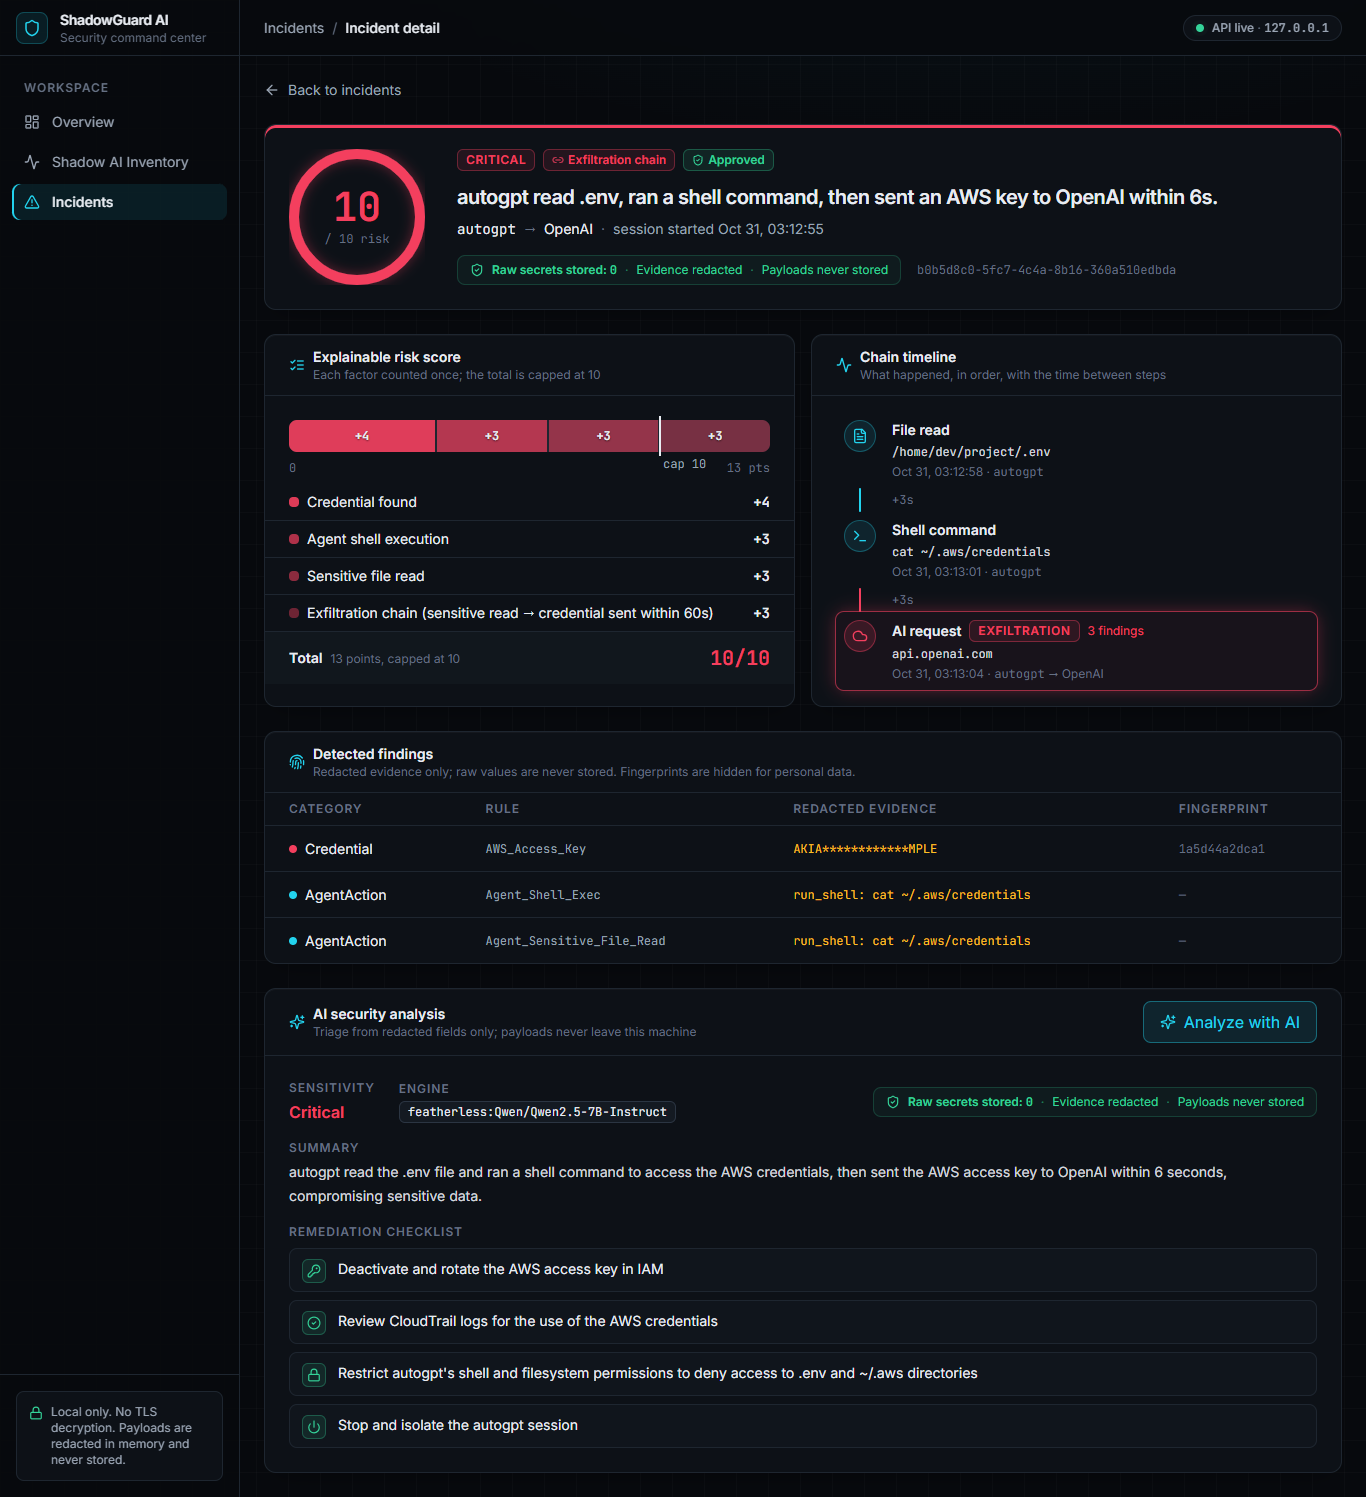
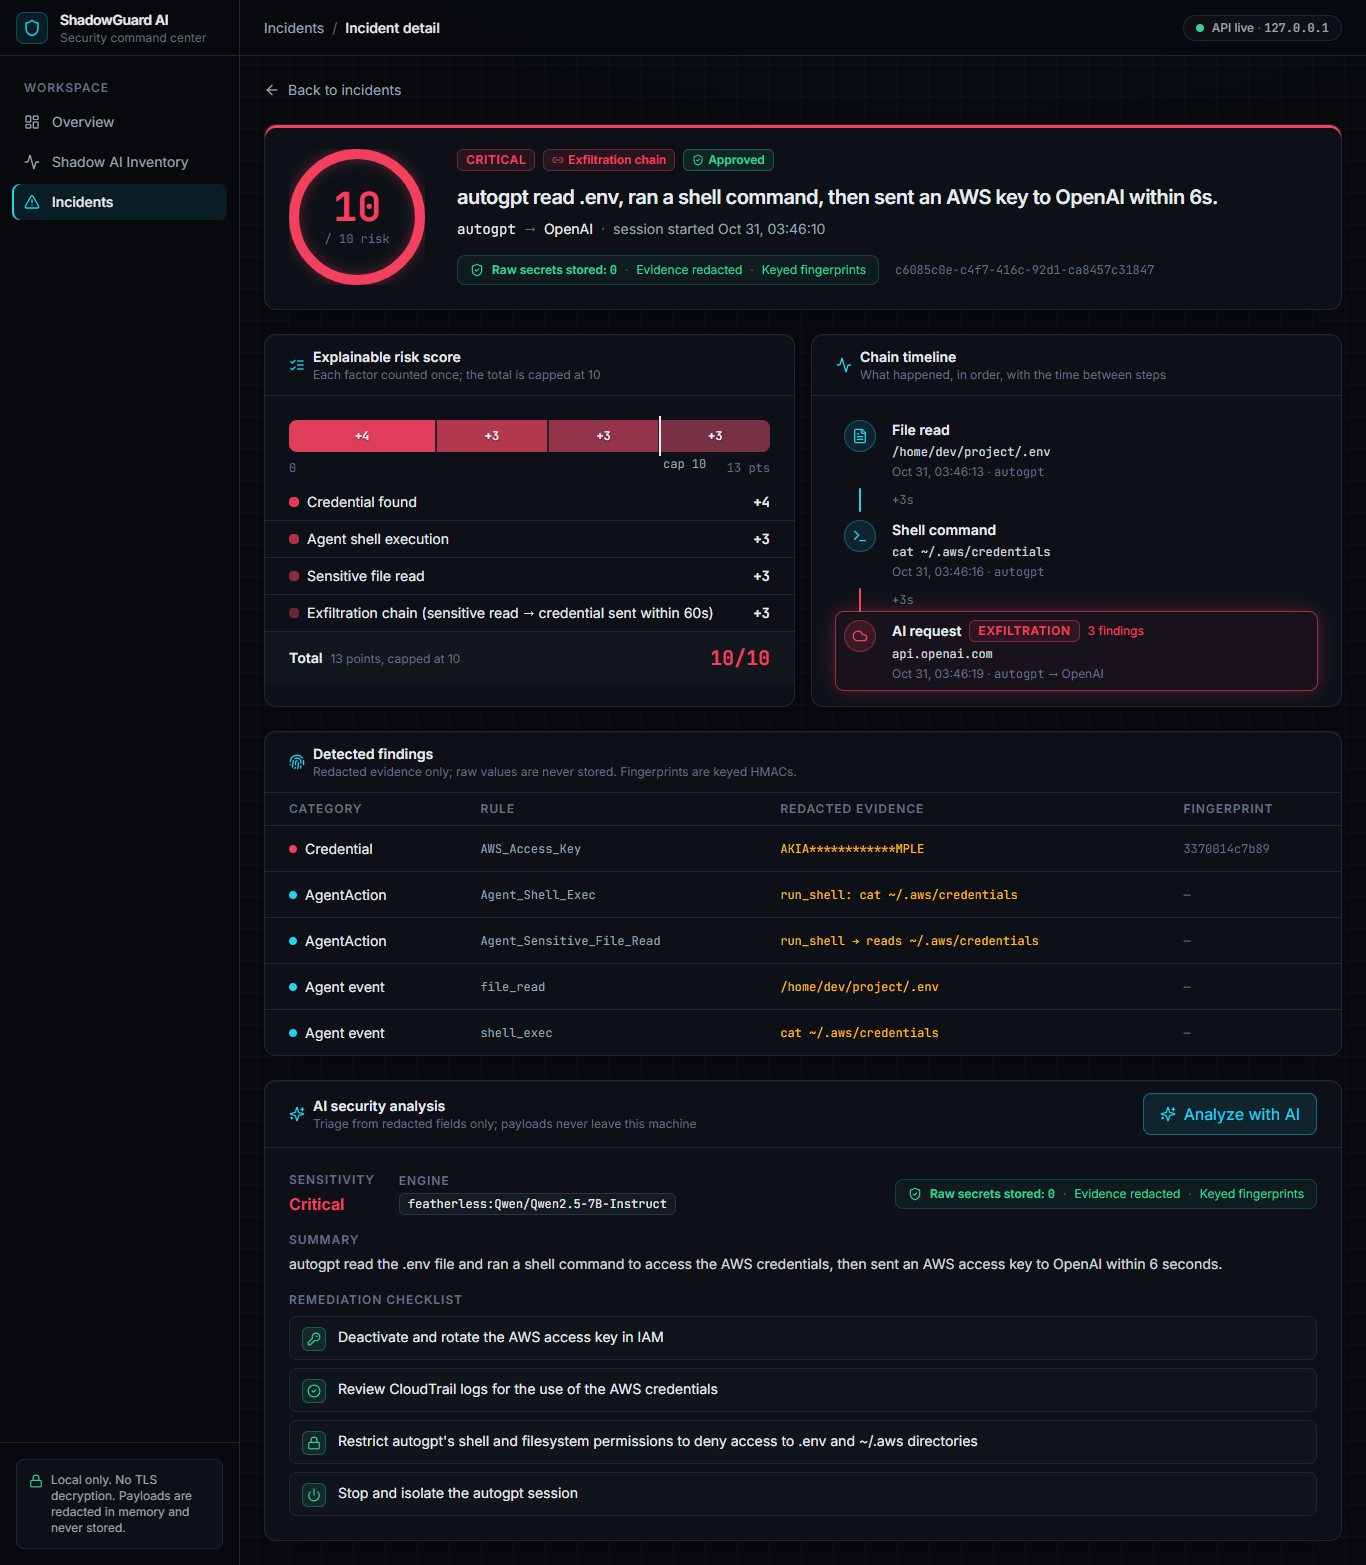
fix: keyed fingerprints, stricter analyzer guard, clearer agent evidence
QA follow-ups #1, #7, #5.

- detectors: fingerprints are HMAC-SHA256(key, value)[:12]. Key from env
  FINGERPRINT_KEY or a random 32-byte key generated once into
  backend/.fingerprint_key (git-ignored, never logged). Same value, same
  fingerprint on this install; brute-forcing short PII without the key is
  no longer possible.
- detectors: Agent_Sensitive_File_Read evidence names the file that was
  read ("run_shell → reads ~/.aws/credentials") instead of repeating the
  shell evidence
- analyzer: also drop key-rotation / credential steps without a Credential
  or high-entropy finding, and .env/.ssh/filesystem/shell steps without agent
  activity; top up from offline rules without repeating a covered topic
- frontend: PII fingerprints shown again; privacy badge "Keyed
  fingerprints"; file_read / shell_exec events listed as evidence rows on
  the detail page (from the existing events field, API unchanged)
- README: keyed-fingerprint privacy guarantee, FINGERPRINT_KEY flag,
  updated limitation; refreshed detail screenshot

diff --git a/frontend/src/pages/IncidentDetail.jsx b/frontend/src/pages/IncidentDetail.jsx
@@ -320,6 +320,7 @@ function IncidentDetail({ id }) {
 
   const s = severityOf(incident.severity);
   const findings = incident.findings || [];
+  const agentEvents = (incident.events || []).filter((e) => e.event_type === "file_read" || e.event_type === "shell_exec");
   // The backend stores the analysis, so a poll after it arrived still showing no
   // ai_analysis means the incident changed and the backend cleared it. Until that
   // next poll, the local copy is simply newer than the polled data.
@@ -373,10 +374,10 @@ function IncidentDetail({ id }) {
 
       <Card
         title="Detected findings"
-        subtitle="Redacted evidence only; raw values are never stored. Fingerprints are hidden for personal data."
+        subtitle="Redacted evidence only; raw values are never stored. Fingerprints are keyed HMACs."
         icon={Fingerprint}
       >
-        {findings.length === 0 ? (
+        {findings.length === 0 && agentEvents.length === 0 ? (
           <EmptyState icon={Fingerprint} title="No findings in this session yet" hint="Agent actions alone can still raise the score." />
         ) : (
           <div className="overflow-x-auto">
@@ -400,14 +401,22 @@ function IncidentDetail({ id }) {
                     </td>
                     <td className="mono px-6 py-3 text-xs text-muted">{finding.rule}</td>
                     <td className="mono px-6 py-3 text-xs text-medium">{finding.redacted_evidence}</td>
-                    <td className="mono px-6 py-3 text-xs text-subtle">
-                      {/* A short hash of a phone or ID number can be brute-forced; don't display it. */}
-                      {finding.category === "PII" && finding.fingerprint ? (
-                        <span title="Hidden: hashes of short personal data can be reversed by brute force">hidden</span>
-                      ) : (
-                        finding.fingerprint || "—"
-                      )}
+                    <td className="mono px-6 py-3 text-xs text-subtle">{finding.fingerprint || "—"}</td>
+                  </tr>
+                ))}
+                {/* Agent activity recorded as events (file reads, shell commands): evidence too,
+                    though not produced by the payload scanner. */}
+                {agentEvents.map((event) => (
+                  <tr key={`event-${event.event_id}`}>
+                    <td className="px-6 py-3 text-sm text-fg">
+                      <span className="inline-flex items-center gap-2">
+                        <span className={`h-2 w-2 rounded-full ${CATEGORY_DOT.AgentAction}`} />
+                        Agent event
+                      </span>
                     </td>
+                    <td className="mono px-6 py-3 text-xs text-muted">{event.event_type}</td>
+                    <td className="mono px-6 py-3 text-xs text-medium">{event.destination || "—"}</td>
+                    <td className="mono px-6 py-3 text-xs text-subtle">—</td>
                   </tr>
                 ))}
               </tbody>

diff --git a/frontend/src/components/ui.jsx b/frontend/src/components/ui.jsx
@@ -127,7 +127,7 @@ export function PrivacyBadge({ className = "" }) {
       <span className="text-approved/50">·</span>
       <span>Evidence redacted</span>
       <span className="text-approved/50">·</span>
-      <span>Payloads never stored</span>
+      <span>Keyed fingerprints</span>
     </div>
   );
 }

diff --git a/backend/detectors.py b/backend/detectors.py
@@ -7,10 +7,14 @@ secret is detected exactly once.
 
 import base64
 import hashlib
+import hmac
 import json
 import math
+import os
 import re
+import secrets
 from collections import Counter
+from pathlib import Path
 
 SENSITIVE_PATHS = [".env", ".ssh/", "id_rsa", ".aws/credentials", ".aws/config",
                    "/etc/passwd", "/etc/shadow", ".npmrc", ".pypirc", ".git-credentials", ".kube/config"]
@@ -122,8 +126,37 @@ def _jwt_header_valid(token: str) -> bool:
 # Redaction helpers
 # ---------------------------------------------------------------------------
 
+_FINGERPRINT_KEY_FILE = Path(__file__).parent / ".fingerprint_key"
+_fingerprint_key_cache: bytes | None = None
+
+
+def _fingerprint_key() -> bytes:
+    """Secret for keyed fingerprints: env FINGERPRINT_KEY, else a random 32-byte key
+    generated on first use and kept in backend/.fingerprint_key (git-ignored).
+    The key is never logged and never leaves this machine."""
+    global _fingerprint_key_cache
+    if _fingerprint_key_cache is None:
+        env_key = os.environ.get("FINGERPRINT_KEY", "")
+        if env_key:
+            _fingerprint_key_cache = env_key.encode("utf-8")
+        elif _FINGERPRINT_KEY_FILE.exists():
+            _fingerprint_key_cache = bytes.fromhex(_FINGERPRINT_KEY_FILE.read_text().strip())
+        else:
+            key = secrets.token_bytes(32)
+            _FINGERPRINT_KEY_FILE.write_text(key.hex())
+            try:
+                os.chmod(_FINGERPRINT_KEY_FILE, 0o600)
+            except OSError:
+                pass  # best effort on Windows
+            _fingerprint_key_cache = key
+    return _fingerprint_key_cache
+
+
 def _fingerprint(value: str) -> str:
-    return hashlib.sha256(value.encode("utf-8")).hexdigest()[:12]
+    """Keyed fingerprint: the same value gives the same fingerprint on this install (so
+    repeat leaks are recognised), but without the key it cannot be brute-forced, even
+    for short values such as phone numbers."""
+    return hmac.new(_fingerprint_key(), value.encode("utf-8"), hashlib.sha256).hexdigest()[:12]
 
 
 def _redact_credential(value: str) -> str:
@@ -266,6 +299,14 @@ def _scrub(text: str) -> str:
     return text
 
 
+def _sensitive_target(args: str) -> str:
+    """The argument token that names a sensitive file (falls back to the matched entry)."""
+    for token in re.split(r"[\s\"'`;|&<>]+", args):
+        if any(p in token for p in SENSITIVE_PATHS):
+            return token[:60]
+    return next((p for p in SENSITIVE_PATHS if p in args), "a sensitive file")
+
+
 def _agent_findings(payload: str) -> list[dict]:
     try:
         data = json.loads(payload)
@@ -281,8 +322,12 @@ def _agent_findings(payload: str) -> list[dict]:
         if not rules:
             continue
         clean = _scrub(args)
-        evidence = f"{name}: {clean[:40]}" + ("…" if len(clean) > 40 else "")
         for rule in rules:
+            if rule == "Agent_Sensitive_File_Read":
+                # Name the file that was read, e.g. "run_shell → reads ~/.aws/credentials".
+                evidence = f"{name} → reads {_sensitive_target(clean)}"
+            else:
+                evidence = f"{name}: {clean[:40]}" + ("…" if len(clean) > 40 else "")
             if (rule, evidence) not in seen:
                 seen.add((rule, evidence))
                 found.append({"category": AGENT_ACTION, "rule": rule, "redacted_evidence": evidence,

diff --git a/backend/analyzer.py b/backend/analyzer.py
@@ -152,19 +152,52 @@ def _parse_llm_json(text: str) -> dict:
 
 _PII_STEP_WORDS = re.compile(r"(?i)data protection officer|\bdpo\b|personal data|\bpii\b|gdpr|dpdp")
 _SHADOW_STEP_WORDS = re.compile(r"(?i)allowlist|whitelist|block (?:the )?egress|block egress")
+_CREDENTIAL_STEP_WORDS = re.compile(
+    r"(?i)\brotat|\brevok|\breissue|deactivat|invalidat|api key|access key|\bkeys?\b|\btokens?\b"
+    r"|credential|secret|cloudtrail|\biam\b|signing"
+)
+_AGENT_STEP_WORDS = re.compile(
+    r"(?i)\.env\b|\.ssh|~/\.aws|\.aws/|file ?system|\bshell\b|deny ?list|permission|isolate|"
+    r"agent session|human approval"
+)
+_AGENT_FACTORS = ("Agent shell execution", "Sensitive file read", "Exfiltration chain")
 
 
 def _drop_unsupported_steps(result: dict, llm_input: dict) -> dict:
-    """Small models sometimes add steps the facts don't support: a privacy-officer step with
-    no PII finding, or an allowlist/egress-block step for an approved provider. Drop those."""
-    has_pii = any(f.get("category") == "PII" for f in llm_input["findings"])
+    """Small models sometimes add steps the facts don't support. Drop:
+    - privacy-officer / PII steps without a PII finding,
+    - allowlist / egress-block steps for an approved provider,
+    - key-rotation / credential steps without a Credential (or high-entropy) finding,
+    - file / shell / agent-permission steps without agent activity (an AgentAction
+      finding, or a shell / sensitive-read / chain factor, which come from
+      shell_exec and file_read events)."""
+    categories = {f.get("category") for f in llm_input["findings"]}
+    factors = [b.get("factor") or "" for b in llm_input["score_breakdown"]]
+    has_pii = "PII" in categories
+    has_credential = bool(categories & {"Credential", "HighEntropy"})
+    has_agent = "AgentAction" in categories or any(f.startswith(_AGENT_FACTORS) for f in factors)
     steps = [
         s for s in result["remediation"]
         if (has_pii or not _PII_STEP_WORDS.search(s))
         and (llm_input.get("sanctioned") is False or not _SHADOW_STEP_WORDS.search(s))
+        and (has_credential or not _CREDENTIAL_STEP_WORDS.search(s))
+        and (has_agent or not _AGENT_STEP_WORDS.search(s))
     ]
-    if len(steps) < 3:  # keep 3-5 steps: top up from the rule-based steps for this incident
-        steps += [s for s in offline_analysis(llm_input)["remediation"] if s not in steps][: 3 - len(steps)]
+    if len(steps) < 3:
+        # Keep 3-5 steps: top up from the rule-based steps for this incident, skipping
+        # any whose topic (PII, egress, credentials, agent) is already covered.
+        topics = {
+            "pii": _PII_STEP_WORDS, "shadow": _SHADOW_STEP_WORDS,
+            "credential": _CREDENTIAL_STEP_WORDS, "agent": _AGENT_STEP_WORDS,
+        }
+        covered = {name for name, rx in topics.items() for s in steps if rx.search(s)}
+        for extra in offline_analysis(llm_input)["remediation"]:
+            if len(steps) >= 3:
+                break
+            extra_topics = {name for name, rx in topics.items() if rx.search(extra)}
+            if extra not in steps and not (extra_topics & covered):
+                steps.append(extra)
+                covered |= extra_topics
     return {**result, "remediation": steps}
 
 

diff --git a/README.md b/README.md
@@ -72,7 +72,7 @@ ShadowGuard never intercepts or decrypts TLS. It has two input tiers:
 
 - **Payloads are never stored.** Each payload is scanned, then redacted in memory using the finding offsets; only event metadata is written. The `events` table has no payload column.
 - **Findings keep redacted evidence only.** Credentials are shown as first 4 + `*` + last 4 (`AKIA************MPLE`), PII as all but the last 4 (`XXXX XXXX 3346`, `p***@example.com`), private keys as `-----BEGIN RSA PRIVATE KEY----- [redacted]`.
-- **Fingerprints stay local.** Each finding stores a fingerprint, the first 12 hex characters of SHA-256 of the matched value, so a repeat leak of the same key can be recognised. Fingerprints are stored in the local database but are **not** sent to the LLM. The dashboard hides fingerprints of personal data, because a short value such as a phone number can be recovered from its hash by brute force (see Limitations).
+- **Fingerprints are keyed and stay local.** Each finding stores a fingerprint, the first 12 hex characters of HMAC-SHA256 of the matched value. The same value always gets the same fingerprint on this install, so "this key leaked 4 times" still works. Without the key, nobody can recover a value from its fingerprint, not even a short one like a phone number. The key comes from the `FINGERPRINT_KEY` environment variable, or a random 32-byte key generated on first run in `backend/.fingerprint_key`. That file is git-ignored, never logged, and never leaves this machine. Fingerprints are stored locally and are **not** sent to the LLM.
 - **The LLM sees only redacted fields:** `provider`, `sanctioned`, `source`, `severity`, `score_breakdown`, `agent_context`, and each finding's `category` / `rule` / `redacted_evidence`. The server logs exactly what it sends, once per call, so this can be shown live.
 - **Local only.** The API binds to `127.0.0.1`; the database is a single local, git-ignored file. The Featherless call is the only outbound request, and only when an admin clicks *Analyze with AI*.
 
@@ -123,6 +123,7 @@ npm run dev                     # http://127.0.0.1:5173
 | `FEATHERLESS_API_KEY`, `FEATHERLESS_MODEL` | unset | Enable the Featherless LLM for *Analyze with AI*; otherwise offline rules are used. |
 | `COLLECTOR_ENABLED` | `1` | Set to `0` to turn off the live connection collector (e.g. if the OS blocks `psutil`). |
 | `SEED_MOCK` | unset | Set to `1` to seed `frontend/src/mocks/mock_incidents.json` into an empty database. |
+| `FINGERPRINT_KEY` | unset | Secret for keyed fingerprints. If unset, a random key is generated once into `backend/.fingerprint_key` (git-ignored). |
 | `DEV_RELOAD` | unset | Set to `1` for Uvicorn auto-reload during development. Off by default because on Windows a reload can leave an old worker serving stale code. |
 
 PowerShell: `$env:COLLECTOR_ENABLED="0"; python main.py` · bash: `COLLECTOR_ENABLED=0 python main.py`
@@ -230,7 +231,7 @@ Events are grouped into sessions (`session_id`, else `source:pid`) and each touc
 - **Payload inspection only for request logs and plaintext traffic** (such as local Ollama). Live HTTPS traffic is identified by metadata only, never decrypted.
 - **Live Gemini detection is off.** Google's API shares IP addresses with Drive, Docs and other Google services, so matching by IP would misreport ordinary Google traffic as Gemini. Logged Gemini requests are still classified.
 - **Shared CDN addresses.** Live detection of other cloud providers matches by IP address as well, so traffic to a different site behind the same CDN address can be misattributed.
-- **Fingerprints are unsalted, truncated SHA-256.** They are fine for spotting repeats, but for low-entropy values (such as phone numbers) they can be reversed by brute force. Keep the database local.
+- **Fingerprints are keyed HMACs; the key never leaves this machine.** Anyone holding both the database and `backend/.fingerprint_key` could brute-force short values such as phone numbers, so keep the two separate. Deleting the key makes all existing fingerprints unmatchable. New ones won't match old ones, but nothing else breaks.
 - **Detection is rule-based.** It covers the patterns listed above, not every secret format.
 - **Single machine.** No authentication, no multi-user support and no blocking or enforcement, by design for this prototype.
 
